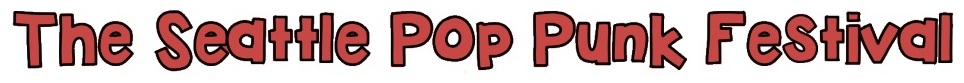
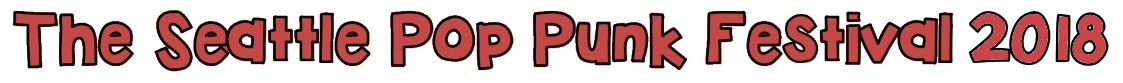
2018

diff --git a/src/main/webapp/_vti_cnf/buytickets.html b/src/main/webapp/_vti_cnf/buytickets.html
@@ -1,13 +1,13 @@
 vti_encoding:SR|utf8-nl
-vti_timelastmodified:TR|11 Oct 2017 20:03:25 -0000
+vti_timelastmodified:TR|11 Oct 2017 20:08:35 -0000
 vti_extenderversion:SR|12.0.0.0
 vti_author:SR|USA\\ccisea1enh
 vti_modifiedby:SR|USA\\ccisea1enh
 vti_timecreated:TR|11 Oct 2017 18:45:29 -0000
 vti_title:SR|The Seattle Pop Punk Festival 20
 vti_backlinkinfo:VX|buytickets.html therecord.html thebands.html index.html thestory.html
-vti_nexttolasttimemodified:TW|11 Oct 2017 19:57:38 -0000
-vti_cacheddtm:TX|11 Oct 2017 19:57:38 -0000
+vti_nexttolasttimemodified:TW|11 Oct 2017 20:03:25 -0000
+vti_cacheddtm:TX|11 Oct 2017 20:08:35 -0000
 vti_filesize:IR|1973
 vti_cachedtitle:SR|The Seattle Pop Punk Festival 20
 vti_cachedbodystyle:SR|<body>

diff --git a/src/main/webapp/_vti_cnf/index.html b/src/main/webapp/_vti_cnf/index.html
@@ -1,13 +1,13 @@
 vti_encoding:SR|utf8-nl
-vti_timelastmodified:TR|11 Oct 2017 20:03:17 -0000
+vti_timelastmodified:TR|11 Oct 2017 20:08:35 -0000
 vti_extenderversion:SR|12.0.0.0
 vti_author:SR|USA\\ccisea1enh
 vti_modifiedby:SR|USA\\ccisea1enh
 vti_timecreated:TR|11 Oct 2017 18:13:06 -0000
 vti_title:SR|The Seattle Pop Punk Festival 20
 vti_backlinkinfo:VX|buytickets.html therecord.html thebands.html index.html thestory.html
-vti_nexttolasttimemodified:TW|11 Oct 2017 19:58:10 -0000
-vti_cacheddtm:TX|11 Oct 2017 20:03:17 -0000
+vti_nexttolasttimemodified:TW|11 Oct 2017 20:03:17 -0000
+vti_cacheddtm:TX|11 Oct 2017 20:08:35 -0000
 vti_filesize:IR|1941
 vti_cachedtitle:SR|The Seattle Pop Punk Festival 20
 vti_cachedbodystyle:SR|<body>

diff --git a/src/main/webapp/_vti_cnf/thebands.html b/src/main/webapp/_vti_cnf/thebands.html
@@ -1,13 +1,13 @@
 vti_encoding:SR|utf8-nl
-vti_timelastmodified:TR|11 Oct 2017 19:58:02 -0000
+vti_timelastmodified:TR|11 Oct 2017 20:08:28 -0000
 vti_extenderversion:SR|12.0.0.0
 vti_author:SR|USA\\ccisea1enh
 vti_modifiedby:SR|USA\\ccisea1enh
 vti_timecreated:TR|11 Oct 2017 18:26:21 -0000
 vti_title:SR|The Seattle Pop Punk Festival 20
 vti_backlinkinfo:VX|buytickets.html therecord.html thebands.html index.html thestory.html
-vti_nexttolasttimemodified:TW|11 Oct 2017 19:56:50 -0000
-vti_cacheddtm:TX|11 Oct 2017 19:58:02 -0000
+vti_nexttolasttimemodified:TW|11 Oct 2017 19:58:02 -0000
+vti_cacheddtm:TX|11 Oct 2017 20:08:28 -0000
 vti_filesize:IR|3928
 vti_cachedtitle:SR|The Seattle Pop Punk Festival 20
 vti_cachedbodystyle:SR|<body>

diff --git a/src/main/webapp/_vti_cnf/therecord.html b/src/main/webapp/_vti_cnf/therecord.html
@@ -1,13 +1,13 @@
 vti_encoding:SR|utf8-nl
-vti_timelastmodified:TR|11 Oct 2017 20:02:48 -0000
+vti_timelastmodified:TR|11 Oct 2017 20:08:35 -0000
 vti_extenderversion:SR|12.0.0.0
 vti_author:SR|USA\\ccisea1enh
 vti_modifiedby:SR|USA\\ccisea1enh
 vti_timecreated:TR|11 Oct 2017 19:57:43 -0000
 vti_title:SR|The Seattle Pop Punk Festival 20
 vti_backlinkinfo:VX|buytickets.html therecord.html thebands.html thestory.html index.html
-vti_nexttolasttimemodified:TW|11 Oct 2017 20:00:37 -0000
-vti_cacheddtm:TX|11 Oct 2017 19:57:43 -0000
+vti_nexttolasttimemodified:TW|11 Oct 2017 20:02:48 -0000
+vti_cacheddtm:TX|11 Oct 2017 20:08:35 -0000
 vti_filesize:IR|2964
 vti_cachedtitle:SR|The Seattle Pop Punk Festival 20
 vti_cachedbodystyle:SR|<body>

diff --git a/src/main/webapp/_vti_cnf/thestory.html b/src/main/webapp/_vti_cnf/thestory.html
@@ -1,13 +1,13 @@
 vti_encoding:SR|utf8-nl
-vti_timelastmodified:TR|11 Oct 2017 20:02:40 -0000
+vti_timelastmodified:TR|11 Oct 2017 20:08:35 -0000
 vti_extenderversion:SR|12.0.0.0
 vti_author:SR|USA\\ccisea1enh
 vti_modifiedby:SR|USA\\ccisea1enh
 vti_timecreated:TR|11 Oct 2017 18:56:45 -0000
 vti_title:SR|The Seattle Pop Punk Festival 20
 vti_backlinkinfo:VX|buytickets.html therecord.html thebands.html index.html thestory.html
-vti_nexttolasttimemodified:TW|11 Oct 2017 20:01:07 -0000
-vti_cacheddtm:TX|11 Oct 2017 20:02:40 -0000
+vti_nexttolasttimemodified:TW|11 Oct 2017 20:02:40 -0000
+vti_cacheddtm:TX|11 Oct 2017 20:08:35 -0000
 vti_filesize:IR|4988
 vti_cachedtitle:SR|The Seattle Pop Punk Festival 20
 vti_cachedbodystyle:SR|<body>

diff --git a/src/main/webapp/buytickets.html b/src/main/webapp/buytickets.html
@@ -35,7 +35,7 @@ a:visited {
 <body>
 
 <h1 class="auto-style16">
-<img alt="the seattle pop punk festival" height="83" src="art/spp-head.jpg" width="964" />&nbsp;</h1>
+<img alt="the seattle pop punk festival 2018" height="83" src="art/spp-head.jpg" width="1123" /></h1>
 <table style="width: 100%">
 	<tr>
 		<td class="auto-style19"><a href="index.html">the festival</a></td>

diff --git a/src/main/webapp/index.html b/src/main/webapp/index.html
@@ -35,7 +35,7 @@ a:visited {
 <body>
 
 <h1 class="auto-style16">
-<img alt="the seattle pop punk festival" height="83" src="art/spp-head.jpg" width="964" />&nbsp;</h1>
+<img alt="the seattle pop punk festival 2018" height="83" src="art/spp-head.jpg" width="1123" /></h1>
 <table style="width: 100%">
 	<tr>
 		<td class="auto-style19"><a href="index.html">the festival</a></td>

diff --git a/src/main/webapp/thebands.html b/src/main/webapp/thebands.html
@@ -38,7 +38,7 @@ a:visited {
 <body>
 
 <h1 class="auto-style16">
-<img alt="the seattle pop punk festival" height="83" src="art/spp-head.jpg" width="964" />&nbsp;</h1>
+<img alt="the seattle pop punk festival 2018" height="83" src="art/spp-head.jpg" width="1123" /></h1>
 <table style="width: 100%">
 	<tr>
 		<td class="auto-style20"><a href="index.html">the festival</a></td>

diff --git a/src/main/webapp/therecord.html b/src/main/webapp/therecord.html
@@ -35,7 +35,7 @@ a:visited {
 <body>
 
 <h1 class="auto-style16">
-<img alt="the seattle pop punk festival" height="83" src="art/spp-head.jpg" width="964" />&nbsp;</h1>
+<img alt="the seattle pop punk festival 2018" height="83" src="art/spp-head.jpg" width="1123" /></h1>
 <table style="width: 100%">
 	<tr>
 		<td class="auto-style19"><a href="index.html">the festival</a></td>

diff --git a/src/main/webapp/thestory.html b/src/main/webapp/thestory.html
@@ -35,7 +35,7 @@ a:visited {
 <body>
 
 <h1 class="auto-style16">
-<img alt="the seattle pop punk festival" height="83" src="art/spp-head.jpg" width="964" />&nbsp;</h1>
+<img alt="the seattle pop punk festival 2018" height="83" src="art/spp-head.jpg" width="1123" /></h1>
 <table style="width: 100%">
 	<tr>
 		<td class="auto-style19"><a href="index.html">the festival</a></td>
